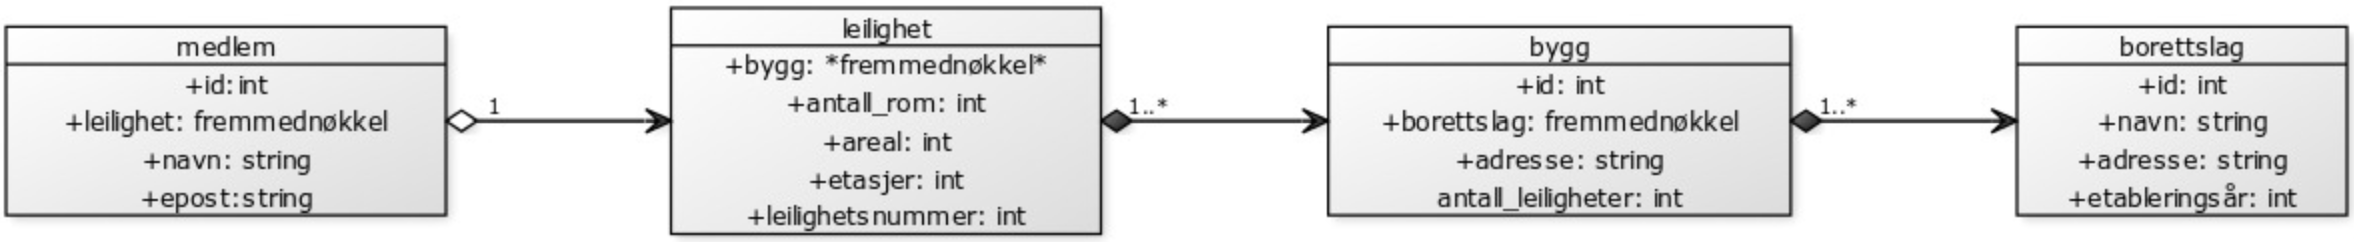
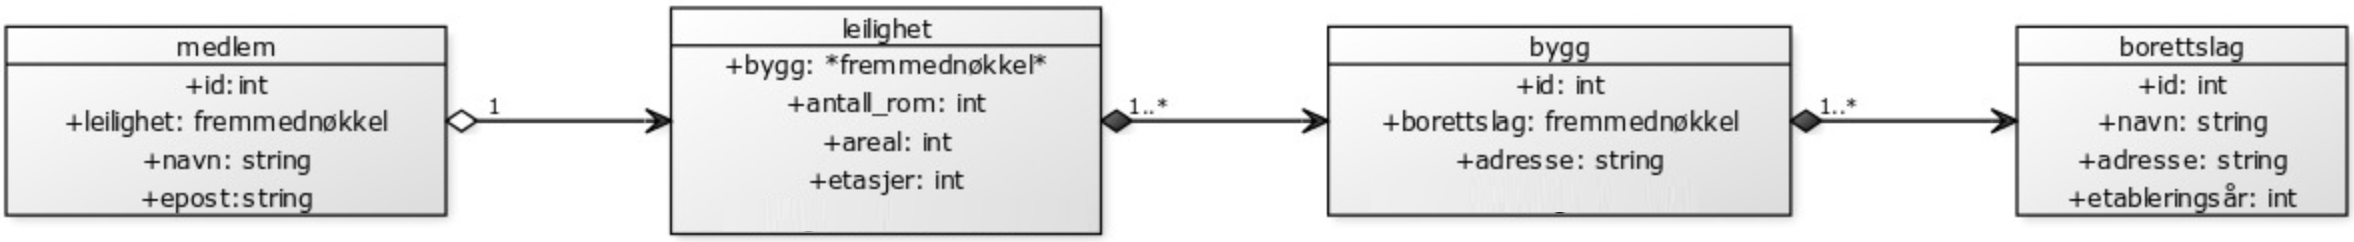
relasjonsmodell lagt til

Changed region(s): [[0.3101, 0.8388, 0.4342, 0.9545], [0.5892, 0.781, 0.7133, 0.8678]]

diff --git a/Relasjonmodell/relasjonsmodellen.md b/Relasjonmodell/relasjonsmodellen.md
@@ -1,13 +1,18 @@
 ## **Øving1**
 # Relasjonsmodellen, del 1
-Database for boligbyggerlaget Bygg & Bo.  
-Her har vi alle oppgavene
+Her er database oppgavene om boligbyggerlaget Bygg & Bo.  
 
 ## a)
+> Unngå også å lagre data som kan avledes av andre data.
+
+
+Inkluderte derfor ikke antall bygg i borettslag og antal leligheter i bygg fordi disse kan avledes gjennom å telle hvor mange bygg/leiligheter som referer tabellen.
+
+
 ![](UML_klasse.png)
 
 ## b)
-Insert relasjon modell her
+![](relasjonsmodell.png)
 
 
 ## c)
